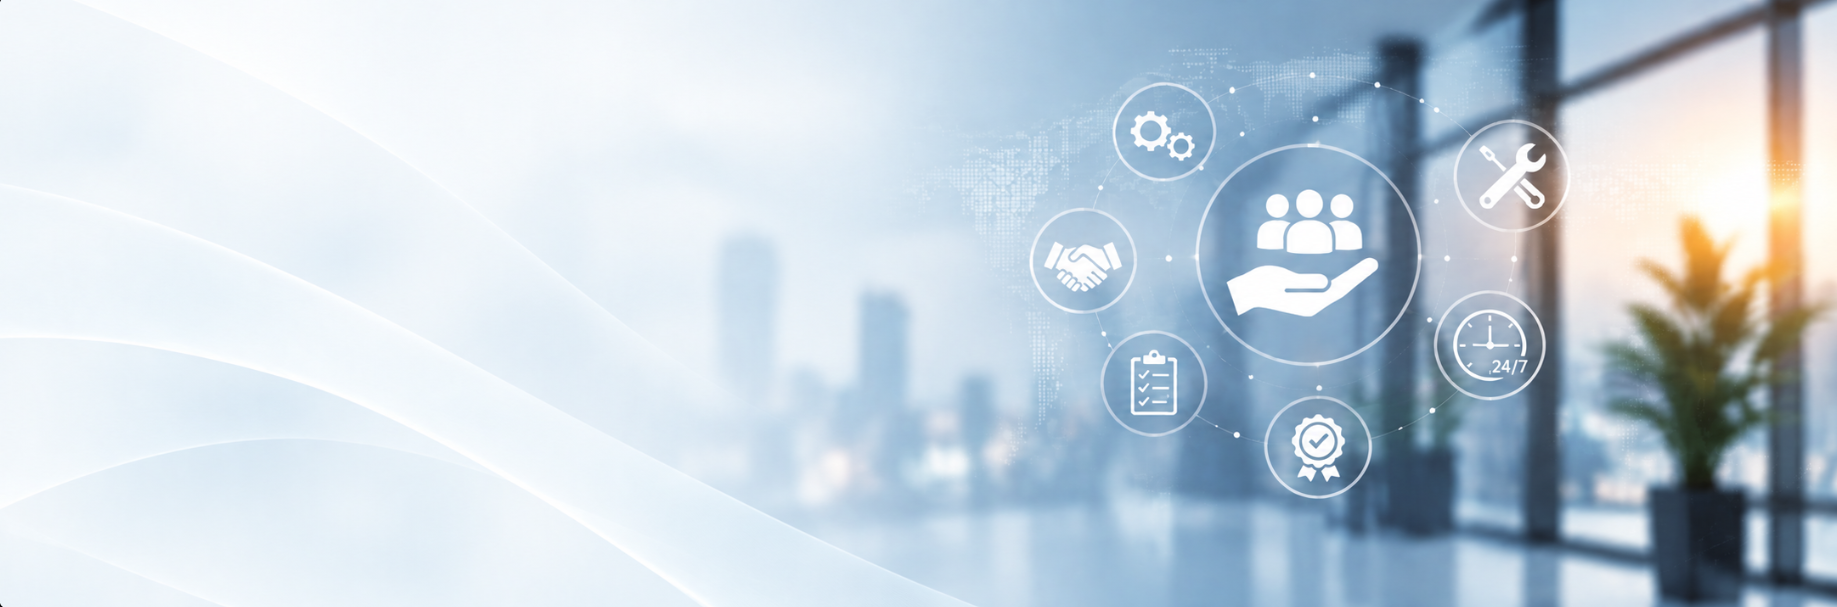
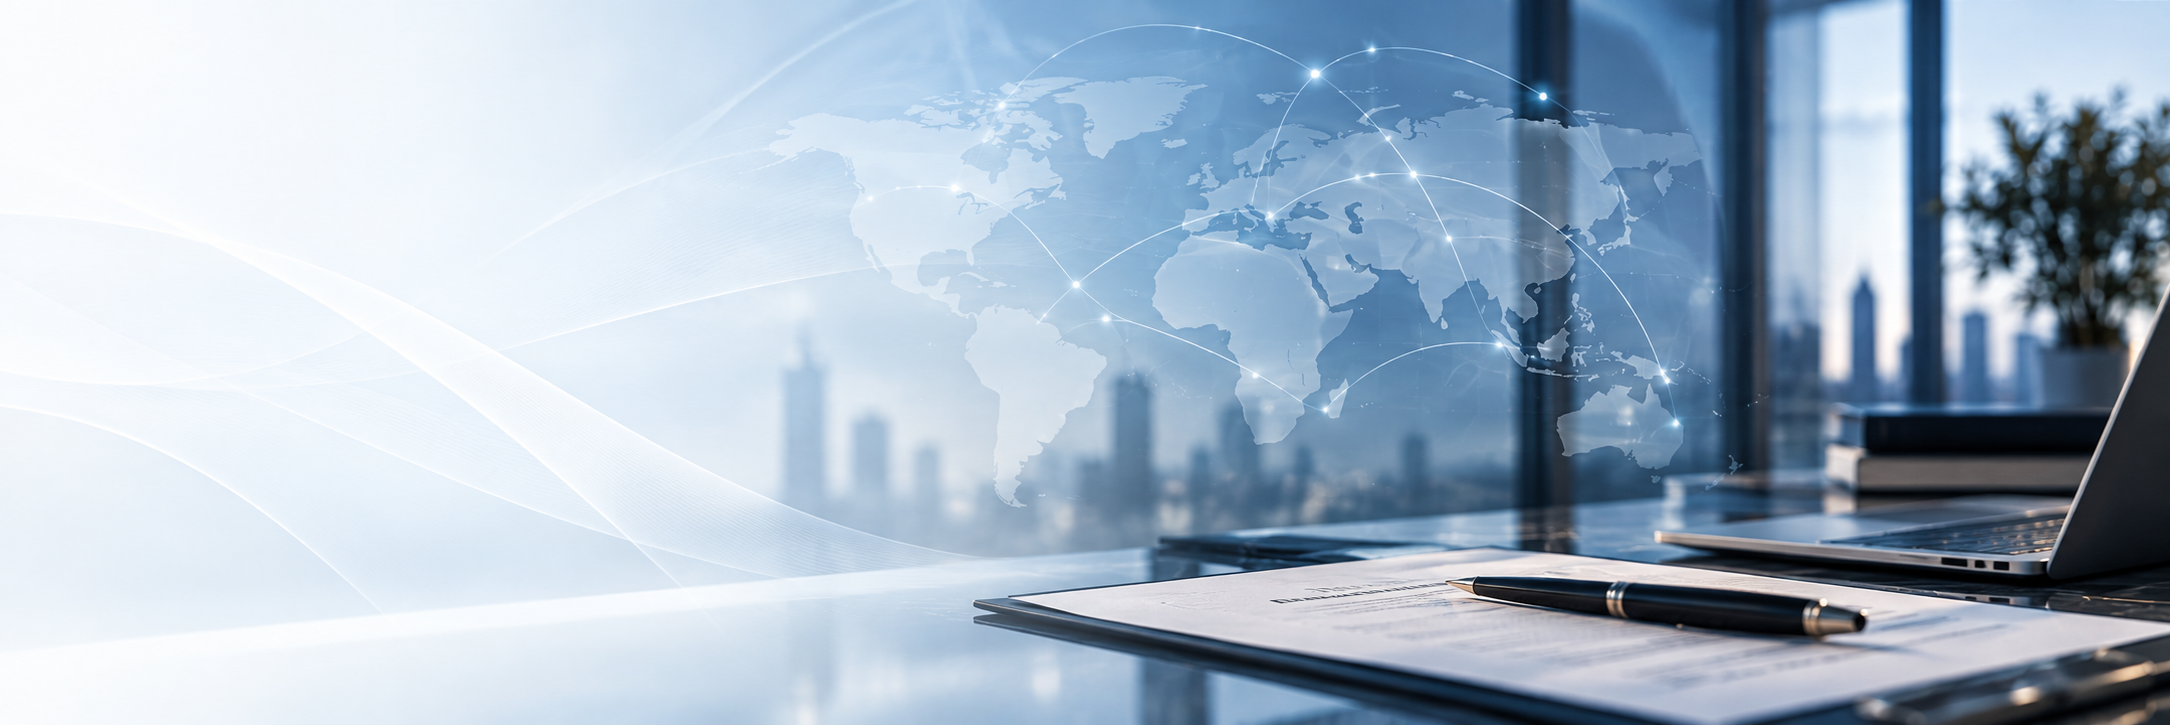
fix pictures

diff --git a/src/styles.css b/src/styles.css
@@ -2018,14 +2018,7 @@ h2 em,
   position: absolute;
   inset: 0;
   z-index: 1;
-  background:
-    linear-gradient(
-      90deg,
-      rgba(255,255,255,0.94) 0%,
-      rgba(255,255,255,0.82) 30%,
-      rgba(255,255,255,0.30) 65%,
-      rgba(255,255,255,0.04) 100%
-    );
+  background: transparent;
 }
 
 .services-page-hero-inner {
@@ -3058,7 +3051,9 @@ h2 em,
 
 .investment-hero {
   position: relative;
-  min-height: 680px;
+  width: 100%;
+  height: 376px;
+  min-height: 376px;
   display: flex;
   align-items: center;
   background-size: cover;
@@ -3067,30 +3062,37 @@ h2 em,
   overflow: hidden;
 }
 
+
+/* RED EDGE */
+
 .investment-hero::before {
   content: "";
   position: absolute;
   top: 0;
   left: 0;
-  width: 5px;
+  width: 4px;
   height: 100%;
   background: var(--red);
   z-index: 3;
 }
 
+
+/* VERY LIGHT LEFT OVERLAY */
+
 .investment-hero::after {
   content: "";
   position: absolute;
   inset: 0;
+
   background:
     linear-gradient(
       90deg,
-      rgba(255,255,255,.10) 0%,
-      rgba(255,255,255,.07) 25%,
-      rgba(255,255,255,.035) 45%,
-      rgba(255,255,255,.01) 60%,
-      rgba(255,255,255,0) 70%
+      rgba(0, 0, 0, 0.38) 0%,
+      rgba(0, 0, 0, 0.24) 32%,
+      rgba(0, 0, 0, 0.08) 55%,
+      rgba(0, 0, 0, 0) 72%
     );
+
   z-index: 1;
 }
 
@@ -3103,11 +3105,13 @@ h2 em,
   position: relative;
   z-index: 2;
   width: min(1360px, calc(100% - 80px));
+  height: 100%;
   margin: 0 auto;
-  min-height: 680px;
+
   display: flex;
   align-items: center;
-  padding: 90px 0;
+
+  padding: 0;
 }
 
 
@@ -3116,39 +3120,85 @@ h2 em,
 ========================================================= */
 
 .investment-hero-copy {
-  width: min(650px, 100%);
+  width: 620px;
+  max-width: 620px;
+
+  /* keeps the whole block visually centered */
+  transform: translateY(4px);
 }
+
+
+/* EYEBROW */
 
 .investment-hero-copy .eyebrow {
-  margin: 0 0 20px;
+  margin: 0 0 14px;
+
   color: var(--red);
-  font-size: 13px;
+
+  font-size: 12px;
+  line-height: 1.2;
   font-weight: 700;
-  letter-spacing: .18em;
+
+  letter-spacing: .17em;
   text-transform: uppercase;
+
+  /* NO SHADOW */
+  text-shadow: none;
 }
 
+
+/* MAIN HEADING */
+
 .investment-hero-copy h1 {
-  max-width: 620px;
+  max-width: 600px;
+
   margin: 0;
+
   color: #17181c;
-  font-size: clamp(52px, 5.4vw, 78px);
+
+  font-size: clamp(44px, 4vw, 58px);
   line-height: .98;
+
   font-weight: 700;
-  letter-spacing: -.055em;
+
+  letter-spacing: -.045em;
+
+  /* NO SHADOW */
+  text-shadow: none;
 }
+
+
+/* RED PART OF HEADING */
 
 .investment-hero-copy h1 em {
   color: var(--red);
   font-style: normal;
 }
 
+
+/* DESCRIPTION */
+
 .investment-hero-copy > p:not(.eyebrow) {
-  max-width: 590px;
-  margin: 28px 0 0;
-  color: #000000;
-  font-size: 17px;
-  line-height: 1.8;
+  max-width: 570px;
+
+  margin: 18px 0 0;
+
+  color: #ffffff;
+
+  font-size: 15px;
+  line-height: 1.55;
+  font-weight: 500;
+
+  /* REMOVE BLACK SHADOW */
+  text-shadow: none;
+}
+
+
+/* Make absolutely sure no paragraph inside
+   the investment hero gets a shadow */
+
+.investment-hero-copy p {
+  text-shadow: none;
 }
 
 
@@ -3159,25 +3209,62 @@ h2 em,
 .investment-hero-actions {
   display: flex;
   align-items: center;
-  flex-wrap: wrap;
-  gap: 28px;
-  margin-top: 34px;
+
+  flex-wrap: nowrap;
+
+  gap: 26px;
+
+  margin-top: 22px;
 }
+
+
+/* MAIN BUTTON */
+
+.investment-hero-actions .button {
+  min-height: 42px;
+
+  padding: 0 28px;
+
+  display: inline-flex;
+  align-items: center;
+  justify-content: center;
+
+  font-size: 12px;
+  font-weight: 700;
+
+  white-space: nowrap;
+}
+
+
+/* TEXT LINK */
 
 .investment-text-link {
   display: inline-flex;
   align-items: center;
+
   gap: 8px;
+
   color: #202124;
+
   font-size: 14px;
   font-weight: 700;
+
   text-decoration: none;
+
+  white-space: nowrap;
+
+  text-shadow: none;
 }
+
+
+/* ARROW */
 
 .investment-text-link .arrow {
   color: var(--red);
+
   transition: transform .2s ease;
 }
+
 
 .investment-text-link:hover .arrow {
   transform: translate(3px,-3px);
@@ -3193,33 +3280,39 @@ h2 em,
 .investment-hero-copy > p:not(.eyebrow),
 .investment-hero-actions {
   opacity: 0;
+
   animation:
     investmentFadeIn
-    .85s
+    .75s
     cubic-bezier(.22,1,.36,1)
     forwards;
 }
 
+
 .investment-hero-copy .eyebrow {
-  animation-delay: .08s;
+  animation-delay: .05s;
 }
+
 
 .investment-hero-copy h1 {
-  animation-delay: .18s;
+  animation-delay: .12s;
 }
 
+
 .investment-hero-copy > p:not(.eyebrow) {
+  animation-delay: .20s;
+}
+
+
+.investment-hero-actions {
   animation-delay: .30s;
 }
 
-.investment-hero-actions {
-  animation-delay: .42s;
-}
 
 @keyframes investmentFadeIn {
   from {
     opacity: 0;
-    transform: translateX(45px);
+    transform: translateX(25px);
   }
 
   to {
@@ -3288,7 +3381,7 @@ h2 em,
 
 .citizenship-investment-card {
   position: relative;
-  min-height: 400px;
+  min-height: 100px;
   display: flex;
   flex-direction: column;
   padding: 34px 36px 32px;

diff --git a/src/main.jsx b/src/main.jsx
@@ -3643,7 +3643,7 @@ function Footer() {
             <Clock size={18} />
 
             <span>
-              Mon – Fri: 09:00 – 18:00
+              Mon – Sat: 09:00 – 18:00
             </span>
 
           </div>
